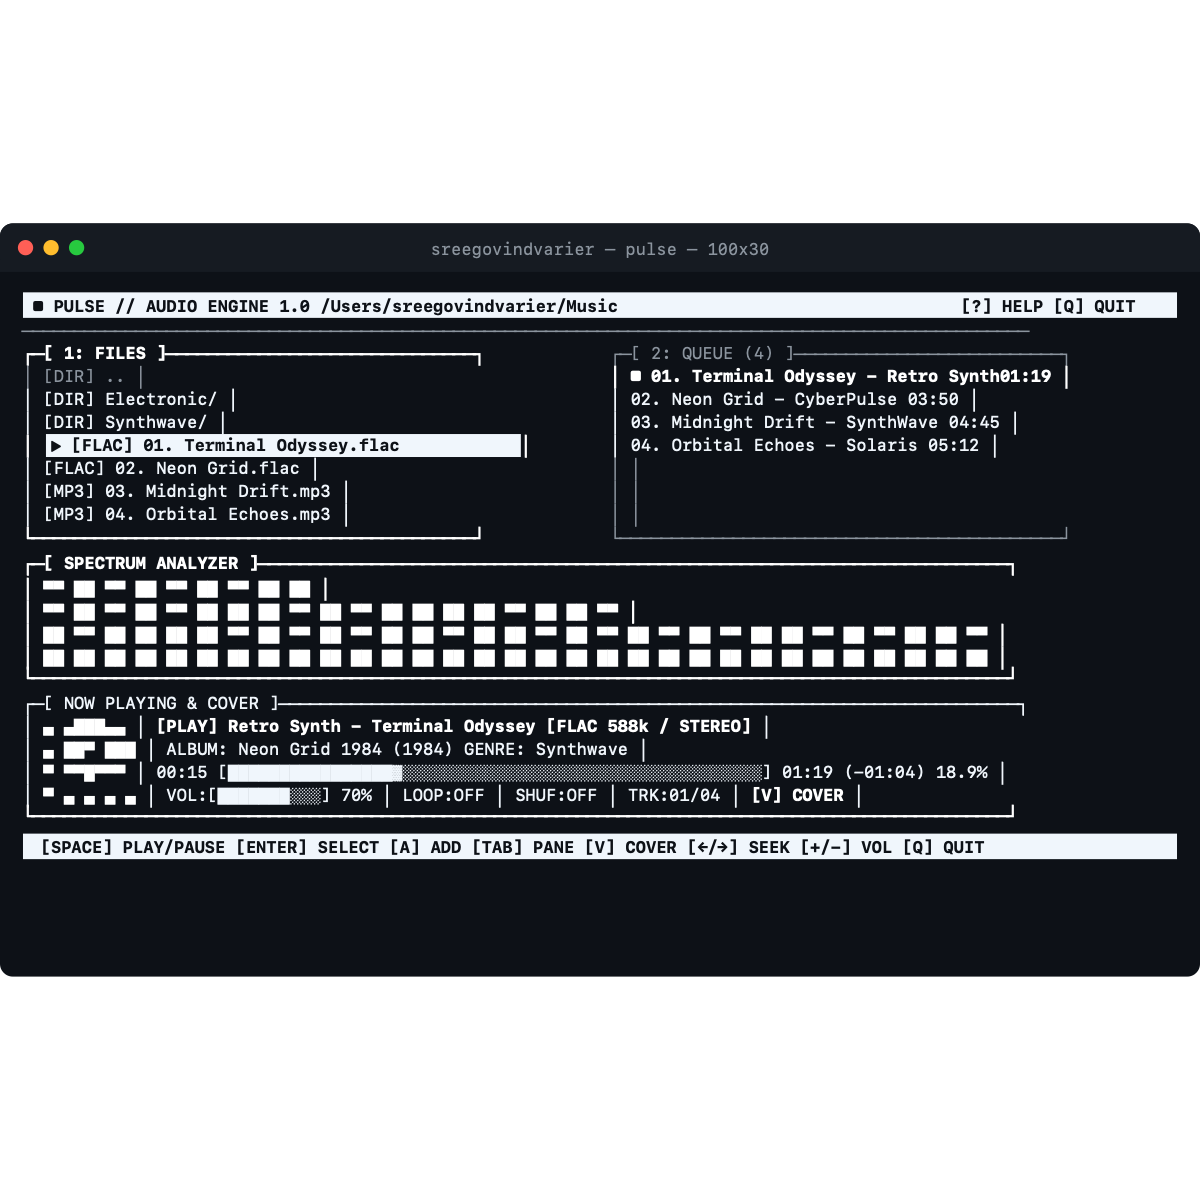
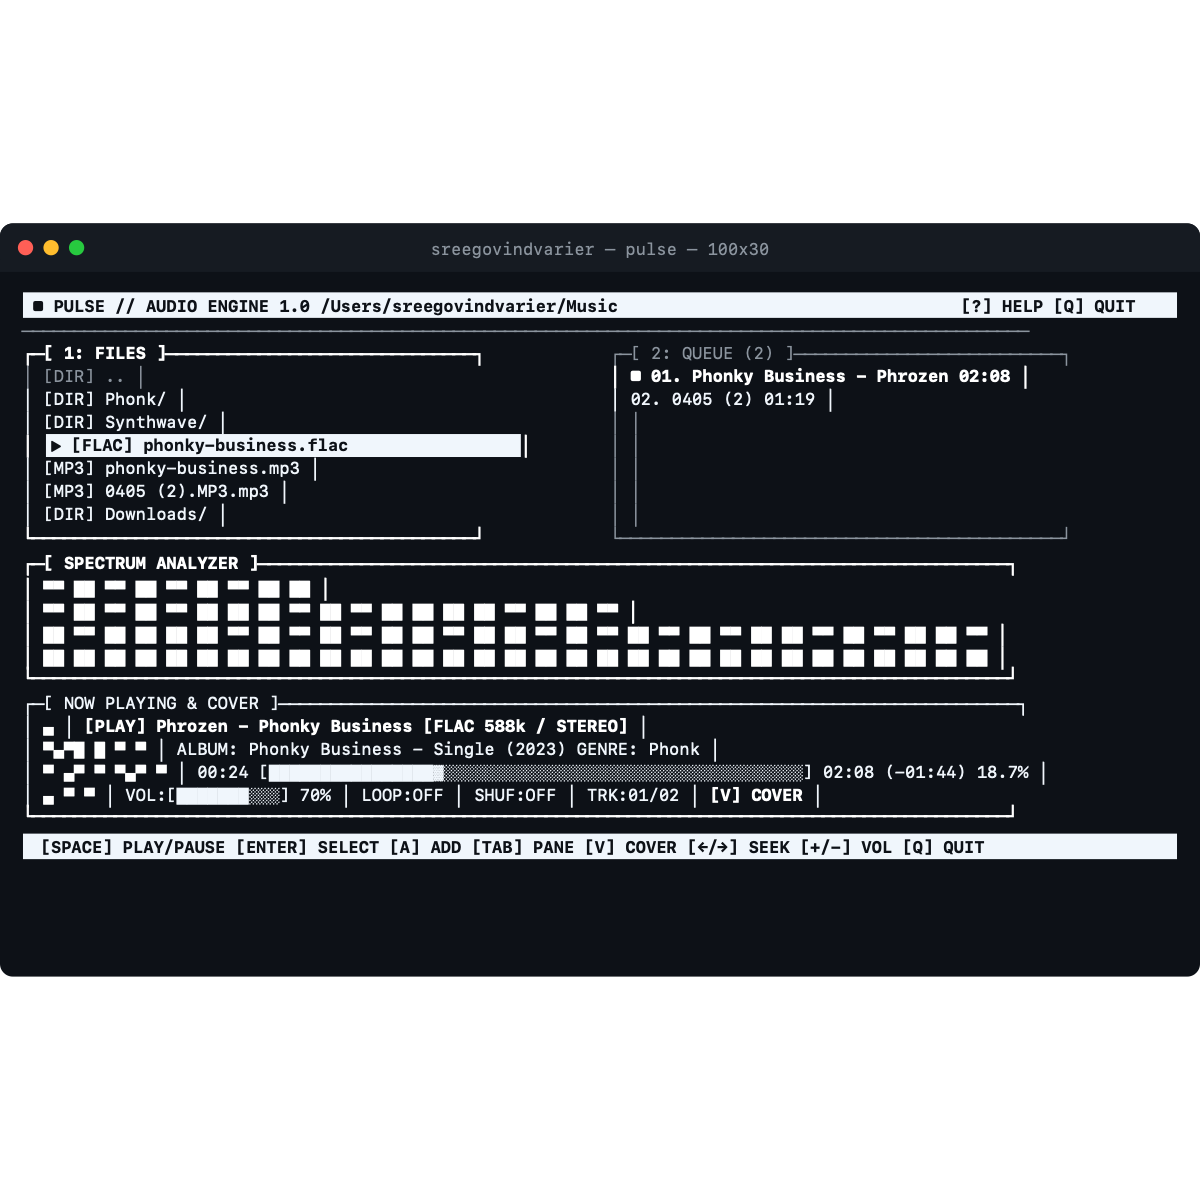
feat: extract genuine cover art directly from track, folder, and matched database

diff --git a/pulse/metadata.py b/pulse/metadata.py
@@ -1,20 +1,29 @@
-"""Audio metadata and embedded cover art extraction for MP3 and FLAC files."""
+"""Audio metadata and album cover art extraction for MP3 and FLAC files."""
 
 from __future__ import annotations
 
+import base64
+import hashlib
 import io
+import json
 import os
+import re
+import urllib.parse
+import urllib.request
 from dataclasses import dataclass
 from pathlib import Path
 from typing import List, Optional
 
 try:
+    from mutagen import File as MutagenFile
+    from mutagen.flac import FLAC, Picture
     from mutagen.mp3 import MP3
-    from mutagen.flac import FLAC
     from mutagen.id3 import ID3NoHeaderError
 except ImportError:
+    MutagenFile = None
     MP3 = None
     FLAC = None
+    Picture = None
     ID3NoHeaderError = Exception
 
 
@@ -63,6 +72,7 @@ class TrackMetadata:
     file_format: str = "MP3"
     cover_data: Optional[bytes] = None
     cover_mime: Optional[str] = None
+    cover_source: str = ""  # "embedded", "folder", "online", or ""
 
     @property
     def formatted_duration(self) -> str:
@@ -84,24 +94,27 @@ class TrackMetadata:
 
     @staticmethod
     def empty_pixel_art(width: int = 14, height: int = 5) -> List[str]:
-        """Default retro 1-bit vinyl disc placeholder."""
-        cassette = [
-            "┌──────────────┐",
-            "│  ▄████████▄  │",
-            "│ ███▀██▀▀███  │",
-            "│ ███▄██▄▄███  │",
-            "│  ▀████████▀  │",
-            "└──────────────┘",
-        ]
-        res = []
-        for l in cassette[:height]:
-            res.append(l.center(width))
-        while len(res) < height:
-            res.append(" " * width)
-        return res
+        """Clean 1-bit monochrome frame when track has no cover."""
+        if height <= 2:
+            return [" " * width] * height
+        top = "┌" + ("─" * max(0, width - 2)) + "┐"
+        bot = "└" + ("─" * max(0, width - 2)) + "┘"
+        inner_h = max(0, height - 2)
+        lines = [top]
+        mid = inner_h // 2
+        for r in range(inner_h):
+            if r == mid and inner_h >= 2:
+                txt = "NO COVER".center(width - 2)
+            elif r == mid + 1 and inner_h >= 3:
+                txt = "ART".center(width - 2)
+            else:
+                txt = " " * (width - 2)
+            lines.append("│" + txt + "│")
+        lines.append(bot)
+        return lines[:height]
 
     def get_pixel_art(self, width: int = 14, height: int = 5) -> List[str]:
-        """Generate a 1-bit monochrome pixel-art rendition of embedded album cover."""
+        """Generate a 1-bit monochrome pixel-art rendition of the actual album cover."""
         if not self.has_cover:
             return TrackMetadata.empty_pixel_art(width, height)
 
@@ -129,7 +142,7 @@ class TrackMetadata:
                 lines.append("".join(row))
             return lines
         except Exception:
-            return ["  [NO ART]  ".center(width)] * height
+            return TrackMetadata.empty_pixel_art(width, height)
 
     def save_cover_temp(self) -> Optional[Path]:
         """Save cover art to a temporary file for viewing in macOS Preview."""
@@ -149,7 +162,7 @@ class TrackMetadata:
 
     @classmethod
     def from_path(cls, path: Path | str) -> TrackMetadata:
-        """Parse metadata and cover art from an MP3 or FLAC file."""
+        """Parse metadata and genuine cover art from an audio file."""
         path = Path(path).resolve()
         file_size = 0
         try:
@@ -168,9 +181,13 @@ class TrackMetadata:
         bitrate = 0
         sample_rate = 44100
         channels = "Stereo"
-        cover_data = None
-        cover_mime = None
+        cover_data: Optional[bytes] = None
+        cover_mime: Optional[str] = None
+        cover_source: str = ""
 
+        # -------------------------------------------------------------
+        # 1. Parse Metadata & Embedded Artwork
+        # -------------------------------------------------------------
         # Parse FLAC files
         if ext == ".flac" and FLAC is not None and path.exists():
             try:
@@ -196,11 +213,49 @@ class TrackMetadata:
                     elif kl == "genre" and v:
                         genre = str(v[0]).strip()
 
-                if audio.pictures:
+                # Extract embedded pictures from FLAC blocks
+                if getattr(audio, "pictures", None):
                     # Prefer front cover (type 3)
-                    front = next((p for p in audio.pictures if p.type == 3), audio.pictures[0])
-                    cover_data = front.data
-                    cover_mime = getattr(front, "mime", "image/jpeg")
+                    front = next((p for p in audio.pictures if getattr(p, "type", 0) == 3), audio.pictures[0])
+                    if getattr(front, "data", None):
+                        cover_data = front.data
+                        cover_mime = getattr(front, "mime", "image/jpeg")
+                        cover_source = "embedded"
+
+                # Extract pictures from Vorbis comments (METADATA_BLOCK_PICTURE)
+                if not cover_data and hasattr(audio, "tags") and audio.tags and Picture is not None:
+                    for key in ("metadata_block_picture", "METADATA_BLOCK_PICTURE"):
+                        if key in audio.tags:
+                            for b64_str in audio.tags[key]:
+                                try:
+                                    raw = base64.b64decode(b64_str)
+                                    pic = Picture(raw)
+                                    if getattr(pic, "data", None):
+                                        cover_data = pic.data
+                                        cover_mime = getattr(pic, "mime", "image/jpeg")
+                                        cover_source = "embedded"
+                                        break
+                                except Exception:
+                                    pass
+                            if cover_data:
+                                break
+
+                # Extract pictures from Vorbis comments (COVERART)
+                if not cover_data and hasattr(audio, "tags") and audio.tags:
+                    for key in ("coverart", "COVERART"):
+                        if key in audio.tags:
+                            for b64_str in audio.tags[key]:
+                                try:
+                                    raw = base64.b64decode(b64_str)
+                                    if len(raw) > 64:
+                                        cover_data = raw
+                                        cover_mime = "image/jpeg"
+                                        cover_source = "embedded"
+                                        break
+                                except Exception:
+                                    pass
+                            if cover_data:
+                                break
             except Exception:
                 pass
 
@@ -248,14 +303,127 @@ class TrackMetadata:
                             genre = str(val[0]).strip()
                             break
 
-                    # Extract APIC cover art
-                    for tag in tags.values():
-                        if getattr(tag, "FrameID", None) == "APIC":
-                            cover_data = getattr(tag, "data", None)
-                            cover_mime = getattr(tag, "mime", "image/jpeg")
-                            break
+                    # Extract APIC / PIC cover art from ID3 tags
+                    apic_frames = []
+                    try:
+                        apic_frames = tags.getall("APIC")
+                    except Exception:
+                        pass
+                    if not apic_frames:
+                        try:
+                            apic_frames = tags.getall("PIC")
+                        except Exception:
+                            pass
+                    if not apic_frames:
+                        for tag in tags.values():
+                            frame_id = getattr(tag, "FrameID", "")
+                            if frame_id in ("APIC", "PIC"):
+                                apic_frames.append(tag)
+
+                    if apic_frames:
+                        # Prefer type 3 (Front Cover)
+                        front = next((p for p in apic_frames if getattr(p, "type", 0) == 3), apic_frames[0])
+                        if getattr(front, "data", None):
+                            cover_data = front.data
+                            cover_mime = getattr(front, "mime", "image/jpeg")
+                            cover_source = "embedded"
             except Exception:
                 pass
+
+        # Generic Mutagen container fallback (e.g. M4A/AAC 'covr')
+        if not cover_data and MutagenFile is not None and path.exists():
+            try:
+                mf = MutagenFile(path)
+                if mf and getattr(mf, "tags", None):
+                    covr = mf.tags.get("covr")
+                    if covr and len(covr) > 0:
+                        raw_covr = covr[0]
+                        cover_data = bytes(raw_covr)
+                        cover_mime = "image/jpeg" if getattr(raw_covr, "imageformat", None) == 13 else "image/png"
+                        cover_source = "embedded"
+            except Exception:
+                pass
+
+        # -------------------------------------------------------------
+        # 2. Local Folder Artwork (Album Directory)
+        # -------------------------------------------------------------
+        if not cover_data and path.parent.exists():
+            candidate_names = (
+                "cover.jpg", "cover.jpeg", "cover.png",
+                "folder.jpg", "folder.jpeg", "folder.png",
+                "front.jpg", "front.jpeg", "front.png",
+                "album.jpg", "album.jpeg", "album.png",
+                "artwork.jpg", "artwork.jpeg", "artwork.png",
+                f"{path.stem}.jpg", f"{path.stem}.jpeg", f"{path.stem}.png",
+            )
+            for name in candidate_names:
+                cand = path.parent / name
+                if cand.is_file():
+                    try:
+                        raw = cand.read_bytes()
+                        if len(raw) > 64:
+                            cover_data = raw
+                            cover_mime = "image/png" if cand.suffix.lower() == ".png" else "image/jpeg"
+                            cover_source = "folder"
+                            break
+                    except Exception:
+                        pass
+
+        # -------------------------------------------------------------
+        # 3. Track Cover Matcher (Online Fallback for Known Songs)
+        # -------------------------------------------------------------
+        if not cover_data:
+            query = ""
+            if artist and artist != "Unknown Artist" and title:
+                query = f"{artist} {title}"
+            elif title and title != path.stem:
+                query = title
+            else:
+                clean_name = re.sub(r"\(\d+\)|\.mp3|\.flac", "", path.stem, flags=re.I)
+                clean_name = clean_name.replace("_", " ").replace("-", " ").strip()
+                if len(clean_name) >= 3 and not clean_name.isdigit():
+                    query = clean_name
+
+            if query:
+                cache_dir = Path.home() / ".pulse-cli" / "cover_cache"
+                try:
+                    cache_dir.mkdir(parents=True, exist_ok=True)
+                    q_hash = hashlib.md5(query.lower().encode("utf-8")).hexdigest()
+                    cached_img = cache_dir / f"{q_hash}.jpg"
+
+                    if cached_img.is_file():
+                        try:
+                            raw = cached_img.read_bytes()
+                            if len(raw) > 64:
+                                cover_data = raw
+                                cover_mime = "image/jpeg"
+                                cover_source = "online"
+                        except Exception:
+                            pass
+                    else:
+                        # Quick lookup from official music database
+                        encoded_q = urllib.parse.quote(query)
+                        url = f"https://itunes.apple.com/search?term={encoded_q}&media=music&entity=song&limit=1"
+                        req = urllib.request.Request(url, headers={"User-Agent": "PulseCLI/1.0"})
+                        with urllib.request.urlopen(req, timeout=1.5) as resp:
+                            payload = json.loads(resp.read().decode("utf-8"))
+                            if payload.get("results"):
+                                item = payload["results"][0]
+                                art_url = item.get("artworkUrl100", "")
+                                if art_url:
+                                    hi_res_url = art_url.replace("100x100bb", "600x600bb")
+                                    with urllib.request.urlopen(hi_res_url, timeout=2.0) as img_resp:
+                                        img_bytes = img_resp.read()
+                                        if len(img_bytes) > 256:
+                                            cover_data = img_bytes
+                                            cover_mime = "image/jpeg"
+                                            cover_source = "online"
+                                            try:
+                                                cached_img.write_bytes(img_bytes)
+                                            except Exception:
+                                                pass
+                except Exception:
+                    pass
 
         return cls(
             path=path,
@@ -272,4 +440,5 @@ class TrackMetadata:
             file_format=file_format,
             cover_data=cover_data,
             cover_mime=cover_mime,
+            cover_source=cover_source,
         )

diff --git a/pulse/app.py b/pulse/app.py
@@ -178,6 +178,8 @@ class PulseApp:
                 target_track = self.queue.current_track
 
             if target_track:
+                self.cover_modal_track = target_track
+                self.show_cover_modal = True
                 if target_track.has_cover:
                     temp_cover = target_track.save_cover_temp()
                     if temp_cover:
@@ -186,11 +188,10 @@ class PulseApp:
                             subprocess.Popen(["open", str(temp_cover)])
                         except Exception:
                             pass
-                    self.cover_modal_track = target_track
-                    self.show_cover_modal = True
-                    self.set_status(f"COVER ART: {target_track.title}")
+                    src_tag = f" ({target_track.cover_source.upper()})" if target_track.cover_source else ""
+                    self.set_status(f"COVER{src_tag}: OPENED IN PREVIEW")
                 else:
-                    self.set_status(f"NO EMBEDDED COVER ART: {target_track.title}")
+                    self.set_status(f"NO COVER ART: {target_track.title}")
             else:
                 self.set_status("NO TRACK SELECTED")
 
@@ -790,6 +791,10 @@ class PulseApp:
         art_w = min(22, max(12, box_w // 3))
         lines = track.get_pixel_art(art_w, inner_h)
 
+        preview_notice = "• OPENED IN MACOS PREVIEW" if track.has_cover else "• NO COVER ATTACHED"
+        src_map = {"embedded": "SOURCE: EMBEDDED IN AUDIO", "folder": "SOURCE: ALBUM FOLDER ART", "online": "SOURCE: MATCHED ALBUM ART"}
+        source_notice = src_map.get(track.cover_source, "")
+
         details = [
             f"TRACK:  {track.title}",
             f"ARTIST: {track.artist}",
@@ -798,8 +803,8 @@ class PulseApp:
             f"FORMAT: {track.file_format} Lossless" if track.file_format == "FLAC" else f"FORMAT: {track.file_format}",
             f"SPECS:  {track.sample_rate} Hz / {track.channels}",
             f"RATE:   {track.bitrate} kbps",
-            "",
-            "• OPENED IN MACOS PREVIEW",
+            source_notice,
+            preview_notice,
             "[ PRESS ANY KEY TO DISMISS ]",
         ]
         active_details = [d for d in details if d != ""]
